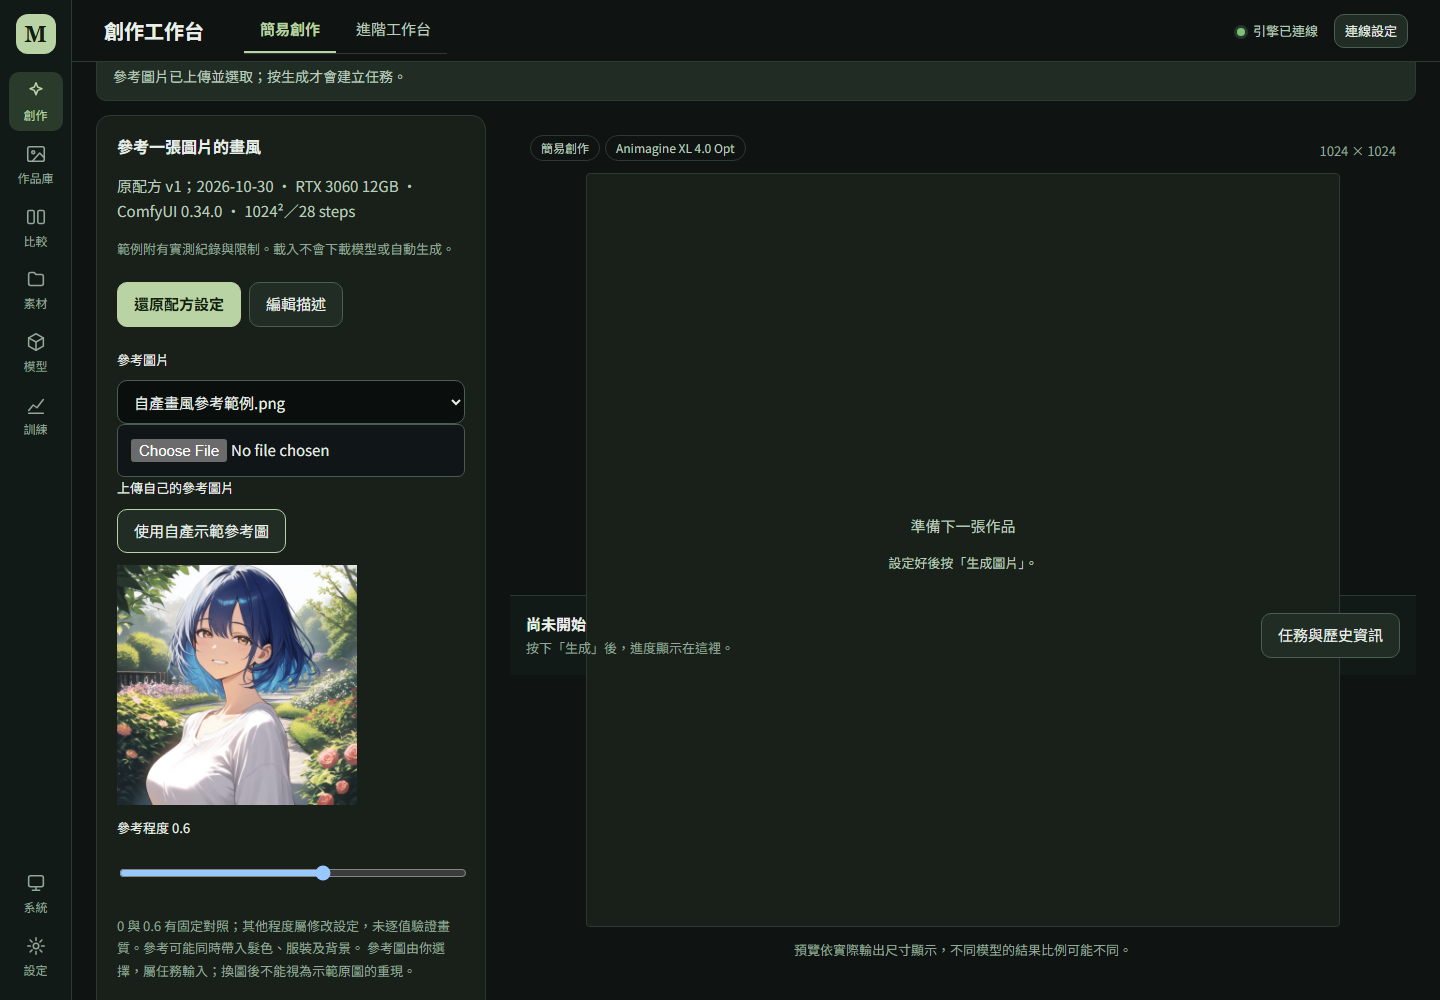
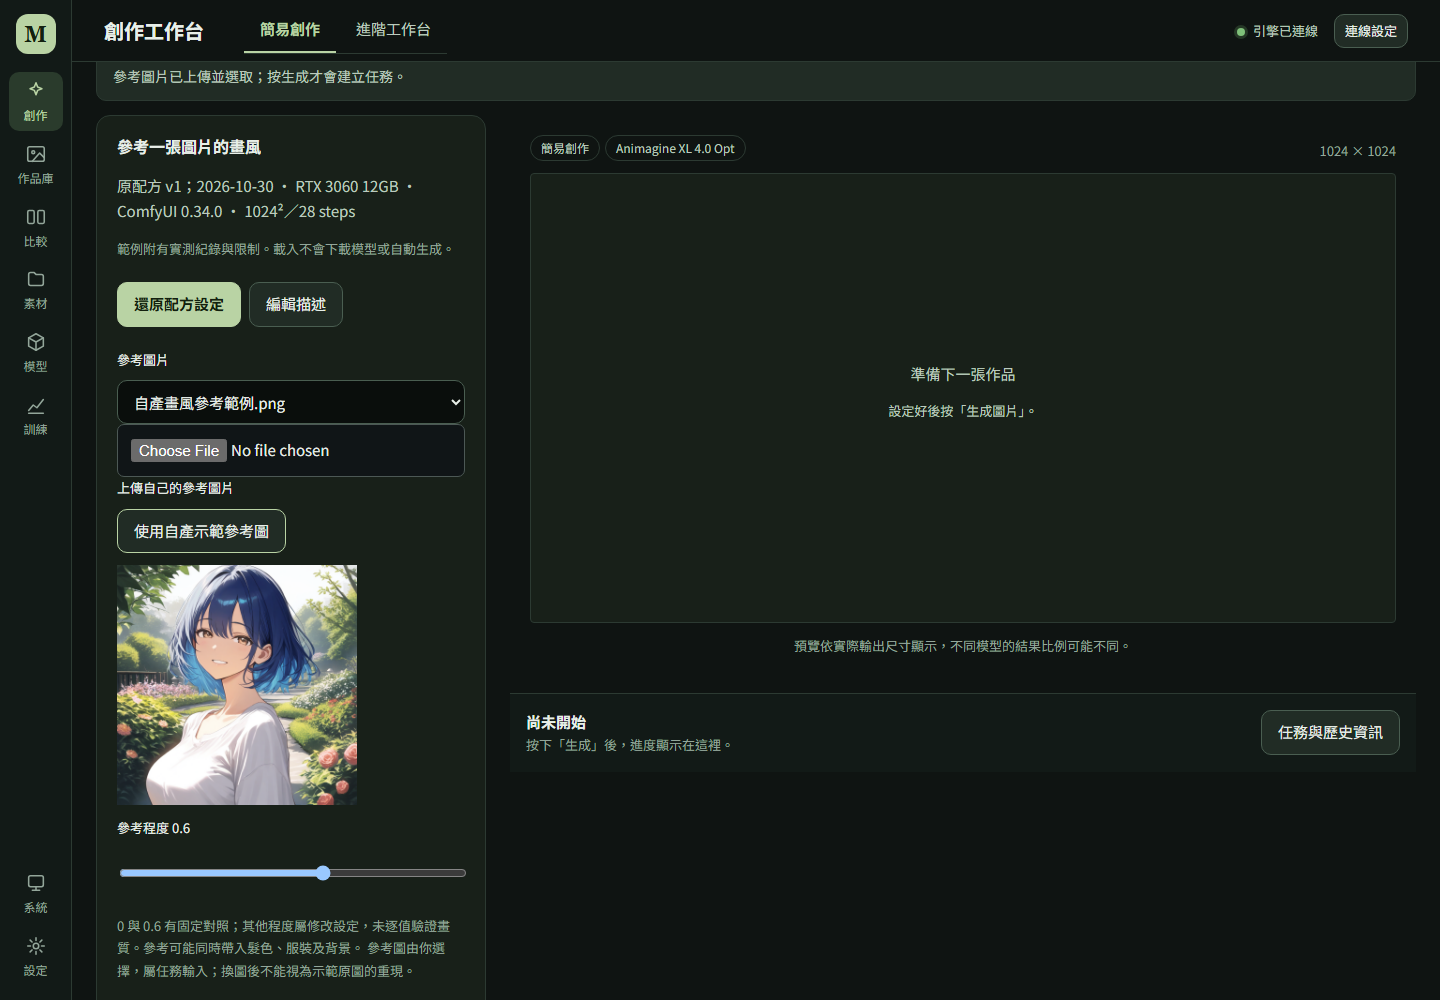
fix: contain simple preview canvas and separate result controls

diff --git a/frontend/tests/simple-content.spec.ts b/frontend/tests/simple-content.spec.ts
@@ -1,5 +1,6 @@
 import { test, expect } from '@playwright/test'
 import { readFile } from 'node:fs/promises'
+import AxeBuilder from '@axe-core/playwright'
 
 const animagine = JSON.parse(await readFile('../models/animagine-xl-4.0-opt.json', 'utf8'))
 const pony = JSON.parse(await readFile('../models/pony-v6-xl.json', 'utf8'))
@@ -22,10 +23,110 @@ test.afterEach(async ({ request }) => {
       version: original.version,
     },
   })
+
   await request.post('/qa/simple-creation?enabled=false')
   await request.post('/api/engine/capabilities/sync')
 })
 
+for (const unavailable of [true, false])
+  test(`simple preview contains ${unavailable ? 'offline error' : 'saved image'} above save controls and task history`, async ({
+    page,
+    request,
+  }, info) => {
+    const before = (await (await request.get('/qa/state')).json()).prompts
+    await request.post('/qa/engine/offline')
+    await page.route('**/api/library/jobs?*', async (route) => {
+      const response = await route.fetch()
+      const body = await response.json()
+      body.items = body.items.map((job: Record<string, unknown>) => ({
+        ...job,
+        checkpoint: 'animagine-xl-4.0-opt.safetensors',
+      }))
+      await route.fulfill({ json: body })
+    })
+    if (unavailable) {
+      await page.route('**/api/jobs/*/results', (route) =>
+        route.fulfill({
+          json: {
+            items: [
+              {
+                index: 0,
+                filename: 'offline.png',
+                saved: false,
+                local_available: false,
+                width: null,
+                height: null,
+              },
+            ],
+          },
+        }),
+      )
+      await page.route('**/api/jobs/*/results/*/image', (route) =>
+        route.fulfill({
+          status: 503,
+          json: { detail: '原引擎離線或無法讀取結果；尚未匯入作品庫的圖片需要原引擎。' },
+        }),
+      )
+    }
+    await page.goto('/#/studio/simple')
+    const preview = page.getByRole('region', { name: '創作畫布', exact: true })
+    const canvas = preview.locator(unavailable ? '.empty-canvas' : '.result-canvas')
+    if (unavailable) await expect(preview.getByRole('alert')).toContainText('原引擎離線')
+    else await expect(canvas.locator('img')).toHaveJSProperty('naturalWidth', 64)
+    const actions = page.locator('.simple-result-actions')
+    await expect(actions.getByRole('button', { name: '存入作品庫', exact: true })).toBeVisible()
+    for (const [width, height] of [
+      [1280, 800],
+      [1440, 900],
+      [1920, 1080],
+      [2732, 1806],
+      [390, 844],
+    ]) {
+      await page.setViewportSize({ width: width!, height: height! })
+      await preview.scrollIntoViewIfNeeded()
+      await page.screenshot({
+        path: info.outputPath(`${unavailable ? 'offline' : 'saved'}-${width}.png`),
+      })
+      const frame = (await preview.boundingBox())!
+      const surface = (await canvas.boundingBox())!
+      const caption = (await preview.locator('.stage-caption').boundingBox())!
+      const buttons = (await actions.boundingBox())!
+      const status = (await page.locator('.simple-stage .generation-statusbar').boundingBox())!
+      expect(
+        surface.y + surface.height,
+        `${width}px canvas must stay inside preview`,
+      ).toBeLessThanOrEqual(frame.y + frame.height + 1)
+      expect(caption.y, `${width}px caption must follow canvas`).toBeGreaterThanOrEqual(
+        surface.y + surface.height - 1,
+      )
+      expect(buttons.y, `${width}px save buttons must follow preview`).toBeGreaterThanOrEqual(
+        frame.y + frame.height - 1,
+      )
+      expect(status.y, `${width}px task controls must follow save buttons`).toBeGreaterThanOrEqual(
+        buttons.y + buttons.height - 1,
+      )
+      expect(surface.height).toBeGreaterThanOrEqual(160)
+      expect(surface.height).toBeLessThanOrEqual(Math.min(520, height! * 0.6) + 1)
+      expect(surface.x).toBeGreaterThanOrEqual(frame.x - 1)
+      expect(surface.x + surface.width).toBeLessThanOrEqual(frame.x + frame.width + 1)
+      expect(await page.evaluate(() => document.documentElement.scrollWidth <= innerWidth)).toBe(
+        true,
+      )
+    }
+    if (unavailable) {
+      await page.getByRole('button', { name: '重新讀取結果', exact: true }).click()
+      await expect(preview.getByRole('alert')).toContainText('原引擎離線')
+    }
+    expect(
+      (
+        await new AxeBuilder({ page })
+          .include('.atelier-shell')
+          .withTags(['wcag2a', 'wcag2aa'])
+          .analyze()
+      ).violations,
+    ).toEqual([])
+    expect((await (await request.get('/qa/state')).json()).prompts).toBe(before)
+  })
 for (const [name, architecture, sha256] of [
   ['Animagine', 'sdxl', animagine.sha256],
   ['Pony', 'sdxl', pony.sha256],

diff --git a/frontend/src/redesign.css b/frontend/src/redesign.css
@@ -3952,9 +3952,28 @@
   overflow: auto;
 }
 #app .atelier-shell .simple-content .simple-stage .studio-preview {
+  --simple-canvas-height: clamp(220px, 45vh, 520px);
   padding: 20px;
-  height: 480px;
-  min-height: 320px;
+  height: auto;
+  min-height: 0;
+}
+#app .atelier-shell .simple-content .studio-preview :is(.empty-canvas, .result-canvas) {
+  box-sizing: border-box;
+  flex: none;
+  width: 100%;
+  height: var(--simple-canvas-height);
+  min-height: 0;
+  margin: 0;
+}
+#app .atelier-shell .simple-content .stage-caption {
+  display: flex;
+  flex-wrap: wrap;
+  justify-content: center;
+  align-items: center;
+  gap: 10px;
+}
+#app .atelier-shell .simple-content .stage-caption button {
+  margin: 0;
 }
 #app .atelier-shell .simple-content .generation-statusbar {
   margin: 0;
@@ -3964,6 +3983,10 @@
 #app .atelier-shell .simple-content .stage-heading {
   flex-wrap: wrap;
   gap: 10px;
+}
+#app .atelier-shell .simple-content .comparison-chips {
+  min-width: 0;
+  overflow-wrap: anywhere;
 }
 #app .atelier-shell .app-topbar > .page-tabs {
   margin: 0 auto 0 24px;
@@ -3983,10 +4006,6 @@
   #app .atelier-shell .studio-content.simple-content {
     height: auto;
     overflow: visible;
-  }
-  #app .atelier-shell .simple-content .simple-stage .studio-preview {
-    height: 360px;
-    min-height: 220px;
   }
   #app .atelier-shell .simple-content .generation-statusbar > div {
     flex-basis: 100%;

diff --git a/frontend/src/SimpleCreation.vue b/frontend/src/SimpleCreation.vue
@@ -1127,6 +1127,17 @@ onBeforeUnmount(() => {
 .simple-stage {
   min-width: 0;
 }
+.simple-stage {
+  display: grid;
+  grid-template-columns: minmax(0, 1fr);
+  align-content: start;
+  align-self: start;
+  gap: 16px;
+}
+.simple-stage > .notice,
+.simple-stage > .simple-result-actions {
+  margin: 0;
+}
 .simple-editor h3 {
   margin-top: 0;
 }
@@ -1174,10 +1185,6 @@ onBeforeUnmount(() => {
 .simple-submit {
   margin-top: 20px;
 }
-.simple-stage :deep(.studio-preview) {
-  min-height: 320px;
-  height: 480px;
-}
 @media (max-width: 900px) {
   .simple-creation {
     padding: 16px;
@@ -1190,10 +1197,6 @@ onBeforeUnmount(() => {
   }
   .simple-intro {
     align-items: flex-start;
-  }
-  .simple-stage :deep(.studio-preview) {
-    height: 360px;
-    min-height: 220px;
   }
 }
 </style>

diff --git a/docs/validation/simple-preview-20261031.md b/docs/validation/simple-preview-20261031.md
@@ -1,0 +1,21 @@
+# 簡易創作預覽排版修正
+
+日期：2026-10-31（Asia/Taipei）。
+
+使用者截圖顯示離線結果的畫布過高，保存按鈕與任務列落入畫布。隔離瀏覽器先重現相同狀態：1280px 時畫布底部為 834.59px，容器底部為 671px，元素邊界斷言失敗。
+
+原因是簡易模式固定 480px（窄視窗 360px）的預覽容器，同時沿用進階畫布依視窗高度及比例計算的尺寸；容器沒有包住實際畫布。修改簡易模式的容器及畫布規則，容器依內容增高，畫布使用 `clamp(220px, 45vh, 520px)`，不改其他工作台的尺寸規則。
+
+右側預覽、保存、來源及任務區以單欄格線及明確間距排列。格線使用 `minmax(0, 1fr)`，模型標籤允許斷行，避免離線長訊息或模型檔名撐寬手機版。移除簡易元件內重複的固定高度，保留圖片原比例的 contain 顯示、離線說明、重新讀取、保存與來源操作。
+
+## 實際驗證
+
+- `npm run test:browser -- tests/simple-content.spec.ts tests/simple-creation-acceptance.spec.ts tests/simple-recipes.spec.ts`：23 項通過。
+- 新增兩個回歸案例，分別顯示離線讀取錯誤及引擎離線時的已保存圖片；各走過 1280×800、1440×900、1920×1080、2732×1806、390×844。檢查畫布在容器內、說明接在畫布之後、保存及任務操作不重疊、沒有整頁橫溢；重試仍有效。
+- 前述兩個案例另執行 app shell 的 axe WCAG 2A／2AA 自動規則，無違規；不等於完整讀屏或實機觸控認證。
+- 其餘受影響案例保留三模型配方、LoRA／參考任務、保存、描述修改、來源、進階轉交／取消、草稿及原 UUID 恢復檢查。
+- 型別／正式建置（本機 `npm.cmd run build -- --configLoader runner`）、`npm run format:check` 及 `npm run lint` 通過。保留既有 Vite bundle 超過 500 kB 提示。
+
+最初重現報告在忽略的 `runtime/quality/simple-preview-red-*`。第一次修正已消除重疊，但離線文字在 390px 撐寬格線；明確限制格線最小欄寬後通過，未放寬邊界斷言。最終報告及五尺寸截圖在 `runtime/quality/simple-preview-delivery-*`，桌面及手機原圖已人工檢視。
+
+介面測試使用獨立 fixture／合成引擎與測試圖片，不操作正式資料或 GPU；沒有以版面測試重新認列模型畫質。圖片參考導覽截圖更新為本輪正式介面，仍使用既有自產參考素材。真人新手操作觀察依使用者回覆延後，未代填驗收。

diff --git a/CHANGELOG.md b/CHANGELOG.md
@@ -2,6 +2,12 @@
 
 本檔保存已完成變更與當時的驗收條件；歷史測試數、未完成數及環境描述均屬該日期。現行操作見 [README](README.md) 與 [文件索引](docs/index.md)，尚未完成工作見 [ROADMAP](ROADMAP.md) 及 [UI 獨立待辦](docs/ui-redesign/BACKEND-CAPABILITIES-BACKLOG.md)。
 
+## 2026-10-31 · 簡易創作預覽與操作區排版
+
+修正簡易預覽固定 480／360px 高度，卻沿用依視窗計算的較大畫布，導致離線錯誤畫布超出容器、與保存按鈕及任務列重疊。容器改為依內容排版，畫布高度限制為 220–520px；保存、來源與任務列保持分隔，窄視窗的欄位及長模型檔名可換行。
+
+23 項受影響瀏覽器案例、型別／正式建置、格式及 lint 通過。新增離線錯誤／已保存圖片兩個版面回歸案例，涵蓋 1280、1440、1920、2732 及 390px；保留重試、保存及來源功能。詳見[驗收紀錄](docs/validation/simple-preview-20261031.md)。真人新手觀察依使用者要求延後，未勾選。
+
 ## 2026-10-30 · 十五份簡易配方與兩個畫風任務
 
 Animagine、Pony、Schnell 各新增四份，先選模型再選五份配方，原三份 v1 與歷史來源保持不變。新增「套用像素風格 LoRA」「參考一張圖片的畫風」簡易入口，固定相容基底／元件，支援描述、參考圖與程度、直接保存及完整轉交進階；缺項列名並開啟正確模型分類。圖片流程沿用專用恢復與還原，不擴大草稿或一般 JSON 交換。

diff --git a/docs/simple-creation-plan.md b/docs/simple-creation-plan.md
@@ -329,6 +329,14 @@
 
 本輪 50 項相關後端、33 個不同產品瀏覽器案例與四尺寸離線導覽最終通過，另有前端測試、型別／建置及格式／靜態檢查。新增十四份模板各實際生成一次並保存。瀏覽器先前失敗、修正原因、最終報告位置與品質限制均留於實測紀錄，不把測試執行次數累加成不同案例。
 
+### 11.6 簡易預覽版面修正（2026-10-31）
+
+- [x] 預覽容器依內容增高，畫布限制高度；保存按鈕、模板來源與任務操作不與畫布重疊。
+- [x] 離線錯誤與已保存圖片，在 1280／1440／1920／2732／390px 均維持正確排列、可重試且無整頁橫溢，長模型檔名可換行。
+- [x] 回歸簡易配方、LoRA／圖片參考、保存、修改與原請求恢復；更新圖片參考導覽截圖。
+
+本輪 23 個瀏覽器案例與前端型別／建置／格式／lint 通過，見[版面驗收紀錄](validation/simple-preview-20261031.md)。11.1 真人操作觀察依使用者回覆「下次再測試」延後，仍保留未勾選。
+
 ## 12. 本文件的交付邊界
 
 本文保留改善方案與未完成驗收條件；已交付範圍以開頭的實作進度及第 11 節清單為準。此次未新增模型或翻譯服務；後續實作仍需分別更新使用者導覽、功能文件與實際驗收紀錄。

diff --git a/docs/guide/README.md b/docs/guide/README.md
@@ -69,3 +69,5 @@
 ## 十五份配方與畫風簡易任務更新
 
 本輪四尺寸離線案例通過，37 個圖片參照均能載入，十二份新增完整配方與兩個簡易畫風入口文字、原圖放大／焦點還原、列印展開及離線章節跳轉均符合測試條件，無整頁橫溢、遠端請求及頁面例外。最新導覽報告在忽略的 `runtime/quality/simple-recipes-followup-*`，簡易圖片畫風截圖在 `simple-recipes-delivery-*`，首頁選卡圖在 `simple-recipes-repair-*`；圖片／文字的來源與實際驗證範圍見[本輪紀錄](../validation/simple-recipes-20261030.md)。
+
+2026-10-31 修正預覽畫布與操作區重疊，`simple-reference.png` 更新為本輪正式介面的 1440×1000 隔離截圖，參考素材及未生成狀態不變；來源在 `runtime/quality/simple-preview-delivery-*`。五尺寸版面及 23 項受影響操作驗證見[版面驗收](../validation/simple-preview-20261031.md)，未重跑不受影響的完整離線導覽案例。
